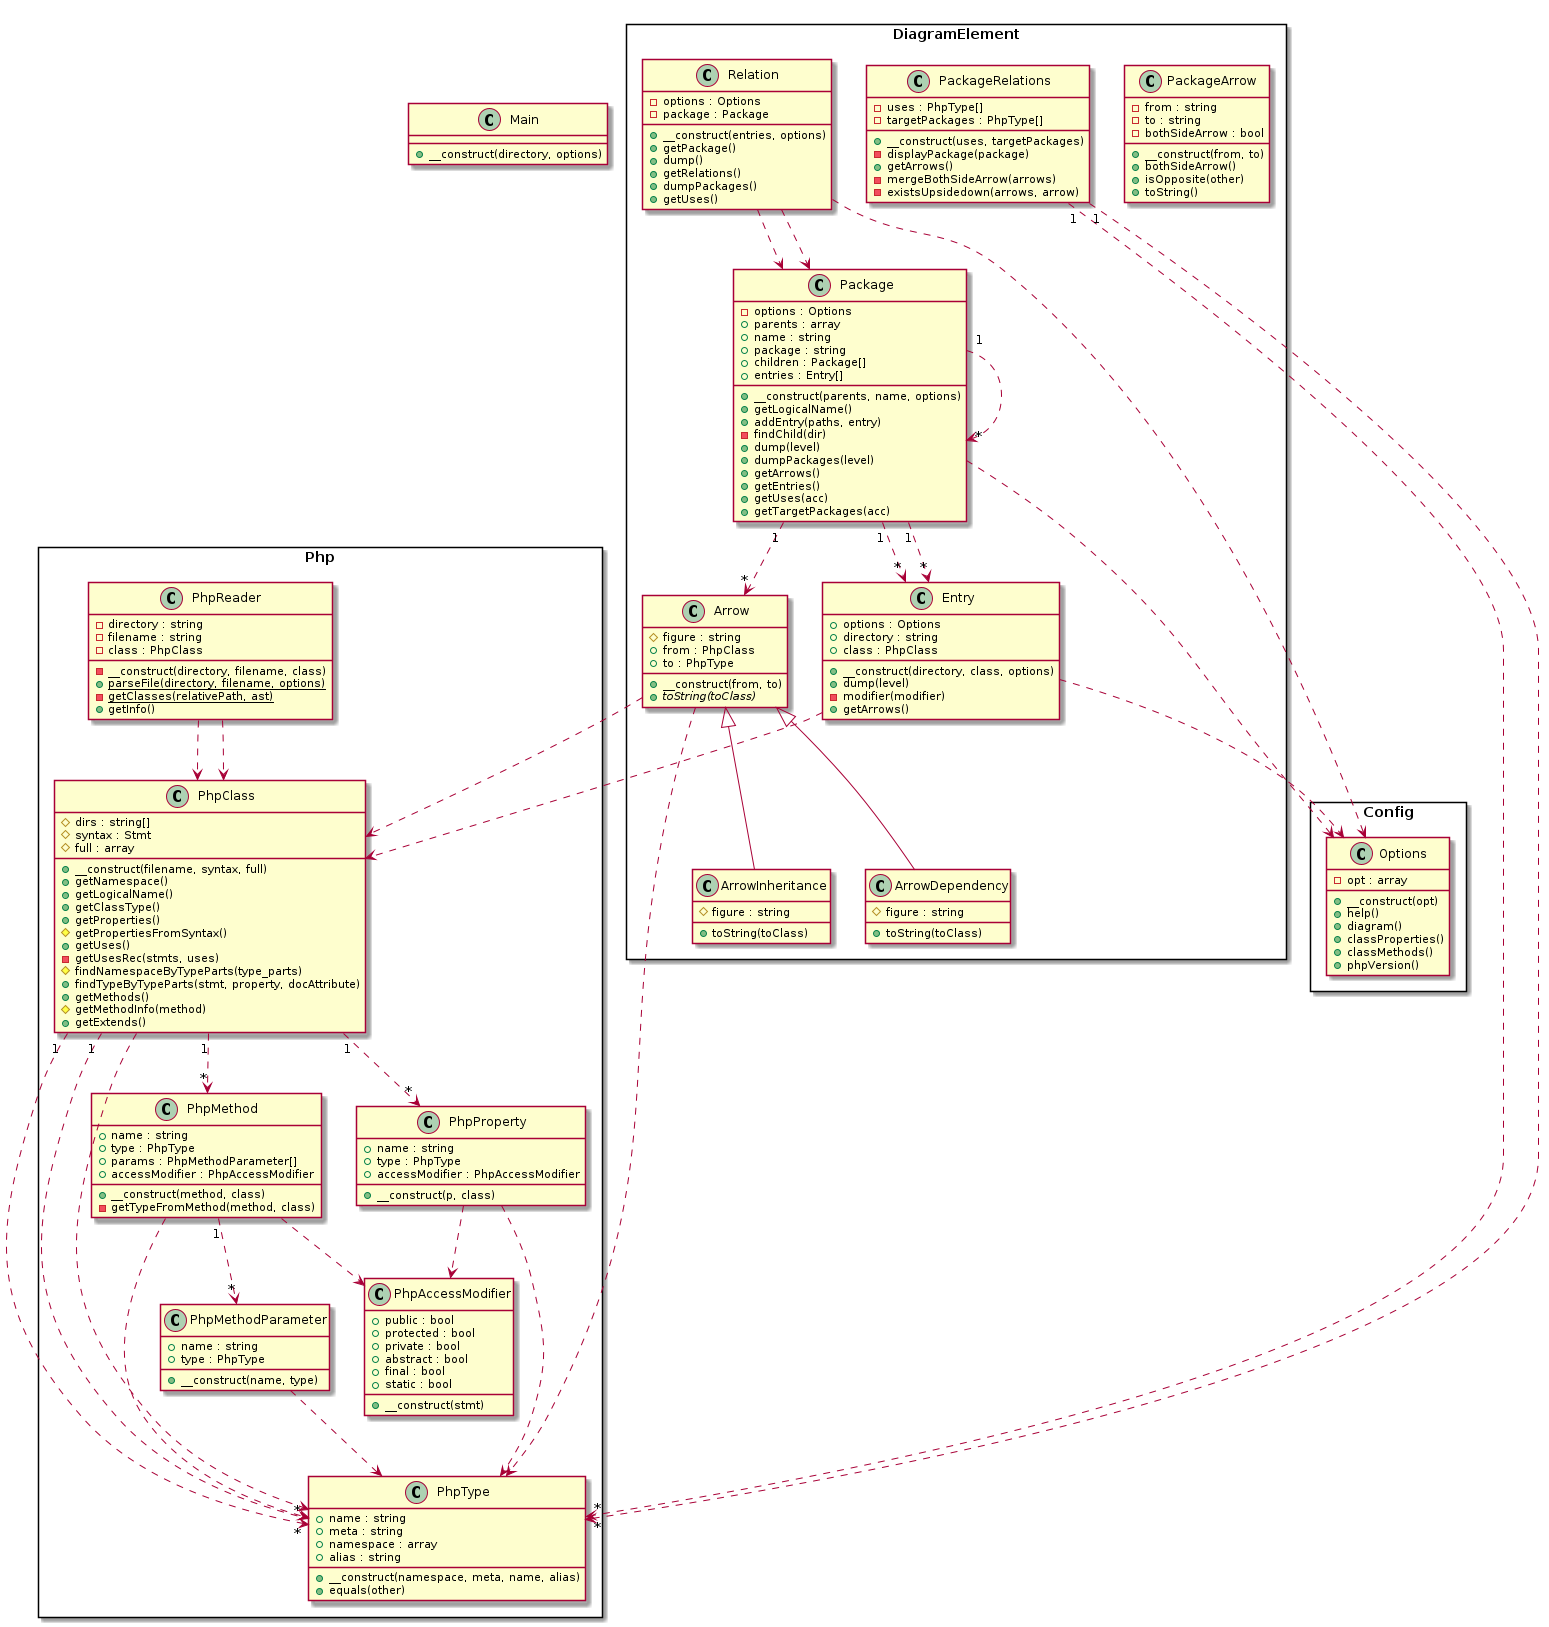
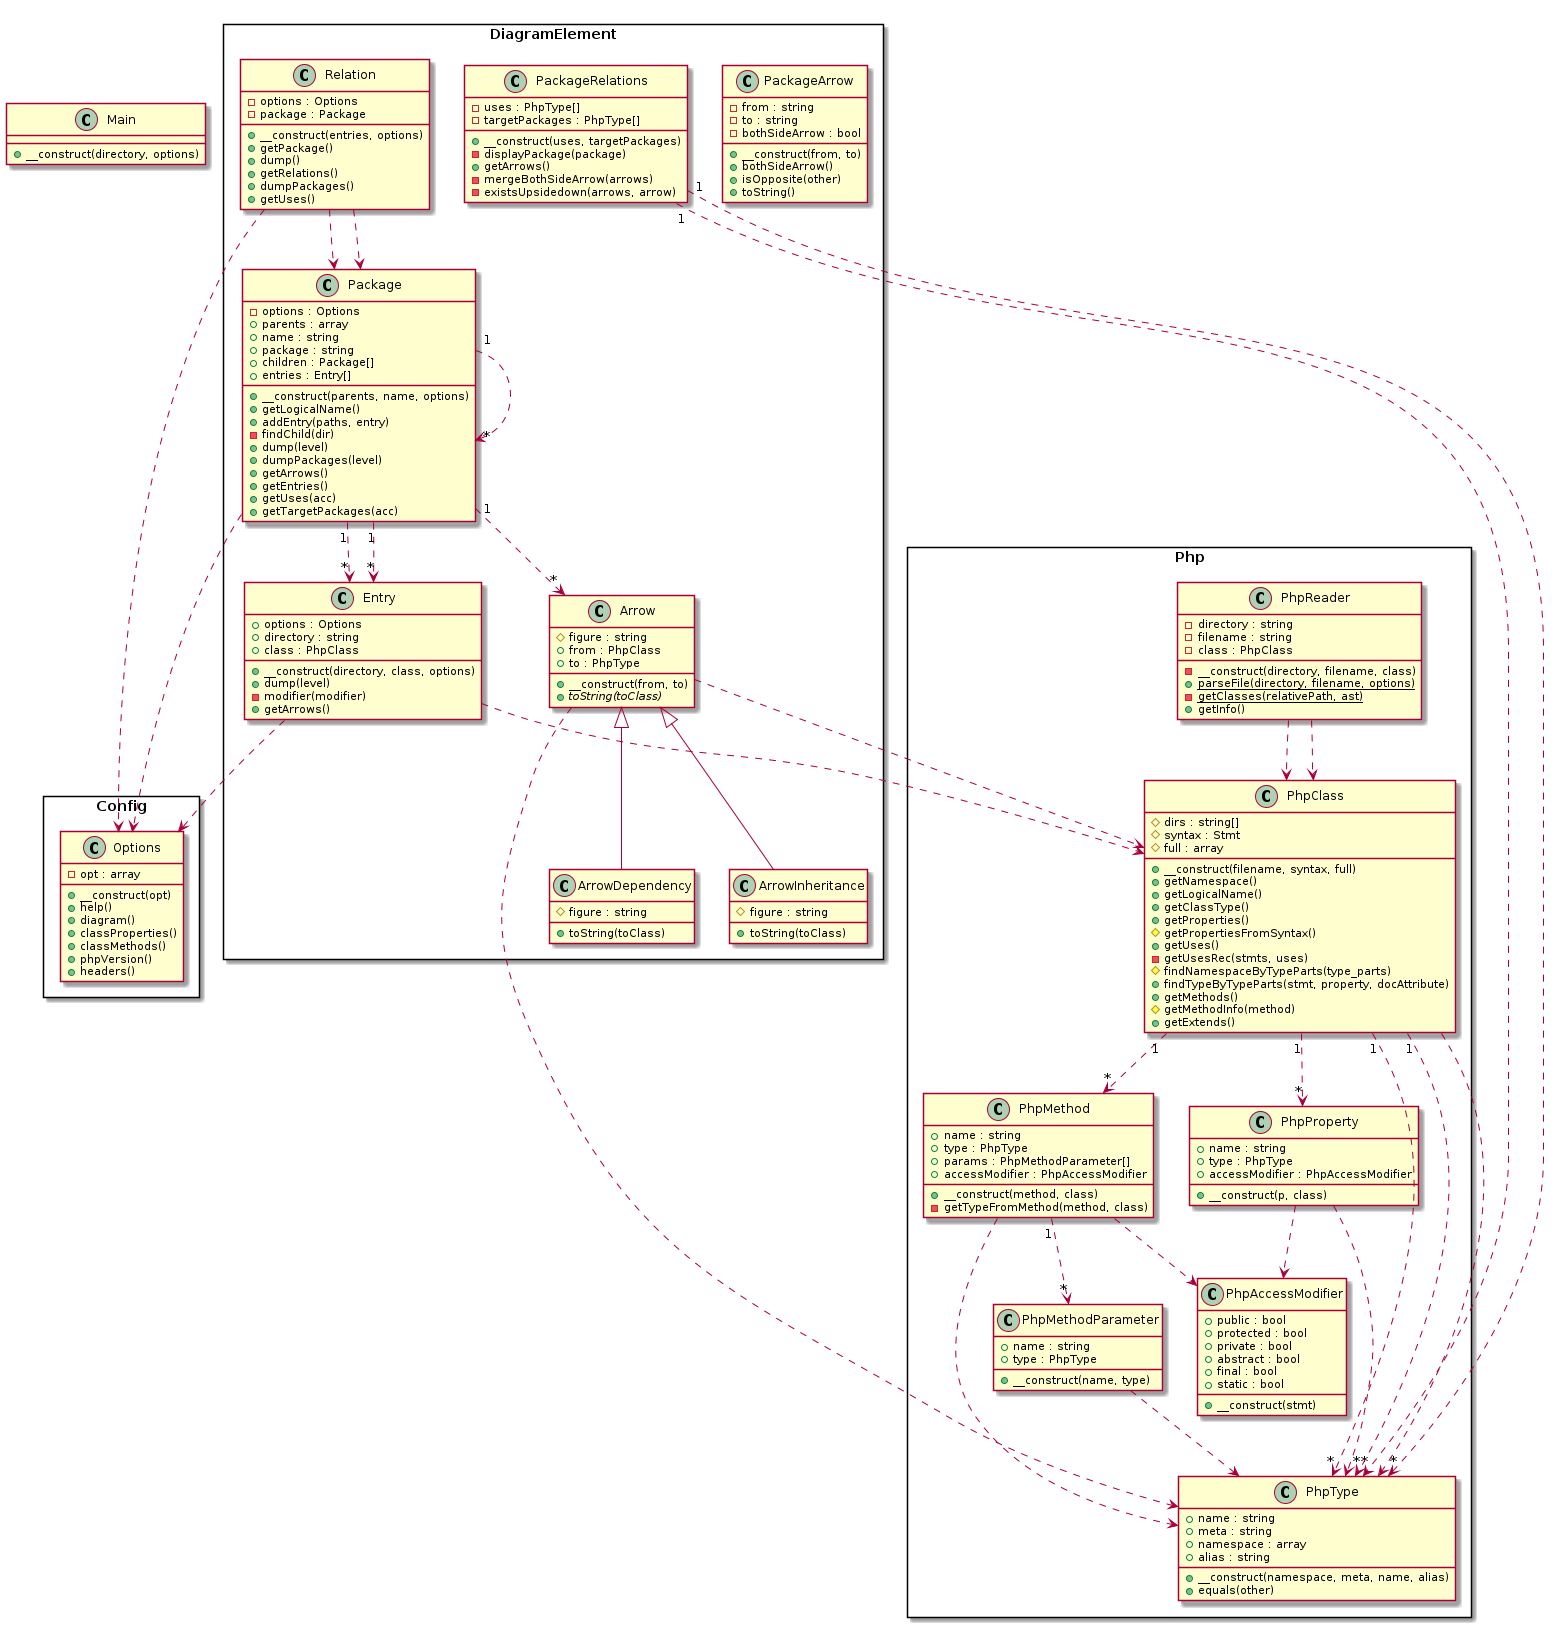
add header option

diff --git a/test/OptionsTest.php b/test/OptionsTest.php
@@ -141,5 +141,27 @@ final class OptionsTest extends TestCase {
 
         $this->assertSame(Options::DIAGRAM_JIG, $options->diagram(), 'diagram is jig.');
     }
+    public function testHeader(): void {
+        $opt = [
+            'header' => 'title PHP Class Diagram',
+        ];
+
+        $options = new Options($opt);
+
+        $this->assertSame('title PHP Class Diagram', $options->headers()[0], 'specified header.');
+    }
+    public function testMultipleHeaders(): void {
+        $opt = [
+            'header' => [
+                'title PHP Class Diagram',
+                'skinparam pageMargin 10',
+            ],
+        ];
+
+        $options = new Options($opt);
+
+        $this->assertSame('title PHP Class Diagram', $options->headers()[0], 'specified header. title');
+        $this->assertSame('skinparam pageMargin 10', $options->headers()[1], 'specified header. pageMargin');
+    }
 
 }

diff --git a/src/DiagramElement/Relation.php b/src/DiagramElement/Relation.php
@@ -21,6 +21,7 @@ class Relation {
 
     public function dump(): array {
         $lines = ['@startuml class-diagram'];
+        $lines = array_merge($lines, $this->options->headers());
         $lines = array_merge($lines, $this->package->dump());
         $lines = array_merge($lines, $this->getRelations());
         $lines[] = '@enduml';
@@ -45,6 +46,7 @@ class Relation {
 
     public function dumpPackages(): array {
         $lines = ['@startuml package-related-diagram'];
+        $lines = array_merge($lines, $this->options->headers());
         $lines = array_merge($lines, $this->package->dumpPackages());
         $uses = $this->getUses();
         $targetPackages = $this->package->getTargetPackages();

diff --git a/src/Config/Options.php b/src/Config/Options.php
@@ -75,4 +75,18 @@ class Options {
         // default
         return self::PHP7;
     }
+
+    /**
+     * @return string[] specified headers
+     */
+    public function headers(): array {
+        $headers = [];
+        if (isset($this->opt['header'])) {
+            $headers = $this->opt['header'];
+            if ( ! is_array($headers)) {
+                $headers = [$headers];
+            }
+        }
+        return $headers;
+    }
 }

diff --git a/README.md b/README.md
@@ -57,6 +57,7 @@ OPTIONS
       --php5                     parse php source file as php5.
       --php7                     parse php source file as php7.
       --php8                     parse php source file as php8. (not suppoted)
+      --header='header string'   additional header string. You can specify multiple header values.
 ```
 
 ## How to execute
